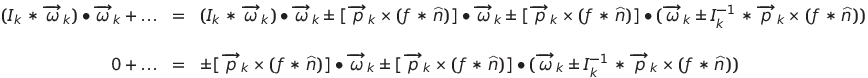
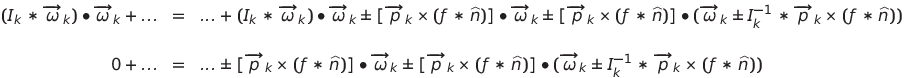
More LaTeX revisions.

Changed region(s): [[0.0, 0.0513, 1.0, 0.359], [0.1866, 0.6667, 0.871, 1.0], [0.1244, 0.7179, 0.1866, 0.9231]]

diff --git a/doc/physics.latex.md b/doc/physics.latex.md
@@ -187,7 +187,7 @@ m_1 * s_1^2 + m_2 * s_2^2 + (I_1 * \overrightarrow{\omega}_1) \bullet \overright
 
 ## angular_energy_eqn4
 ```latex
-(I_k * \overrightarrow{\omega}_k) \bullet \overrightarrow{\omega}_k + ... &=& (I_k * \overrightarrow{\omega}_k) \bullet \overrightarrow{\omega}_k \pm [\overrightarrow{p}_k \times (f * \widehat{n})] \bullet \overrightarrow{\omega}_k \pm [\overrightarrow{p}_k \times (f * \widehat{n})] \bullet (\overrightarrow{\omega}_k \pm I_k^{-1} * \overrightarrow{p}_k \times (f * \widehat{n})) \\
+(I_k * \overrightarrow{\omega}_k) \bullet \overrightarrow{\omega}_k + ... &=& ... + (I_k * \overrightarrow{\omega}_k) \bullet \overrightarrow{\omega}_k \pm [\overrightarrow{p}_k \times (f * \widehat{n})] \bullet \overrightarrow{\omega}_k \pm [\overrightarrow{p}_k \times (f * \widehat{n})] \bullet (\overrightarrow{\omega}_k \pm I_k^{-1} * \overrightarrow{p}_k \times (f * \widehat{n})) \\
 \vspace{10} \\
-0 + ... &=& \pm [\overrightarrow{p}_k \times (f * \widehat{n})] \bullet \overrightarrow{\omega}_k \pm [\overrightarrow{p}_k \times (f * \widehat{n})] \bullet (\overrightarrow{\omega}_k \pm I_k^{-1} * \overrightarrow{p}_k \times (f * \widehat{n}))
+0 + ... &=& ... \pm [\overrightarrow{p}_k \times (f * \widehat{n})] \bullet \overrightarrow{\omega}_k \pm [\overrightarrow{p}_k \times (f * \widehat{n})] \bullet (\overrightarrow{\omega}_k \pm I_k^{-1} * \overrightarrow{p}_k \times (f * \widehat{n}))
 ```
